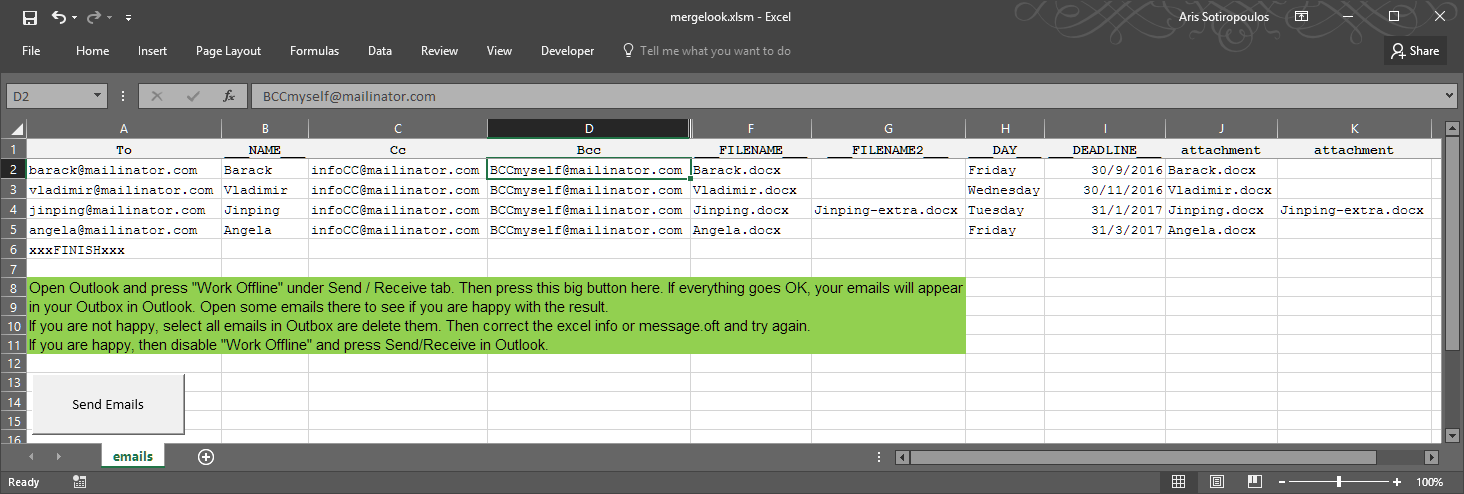
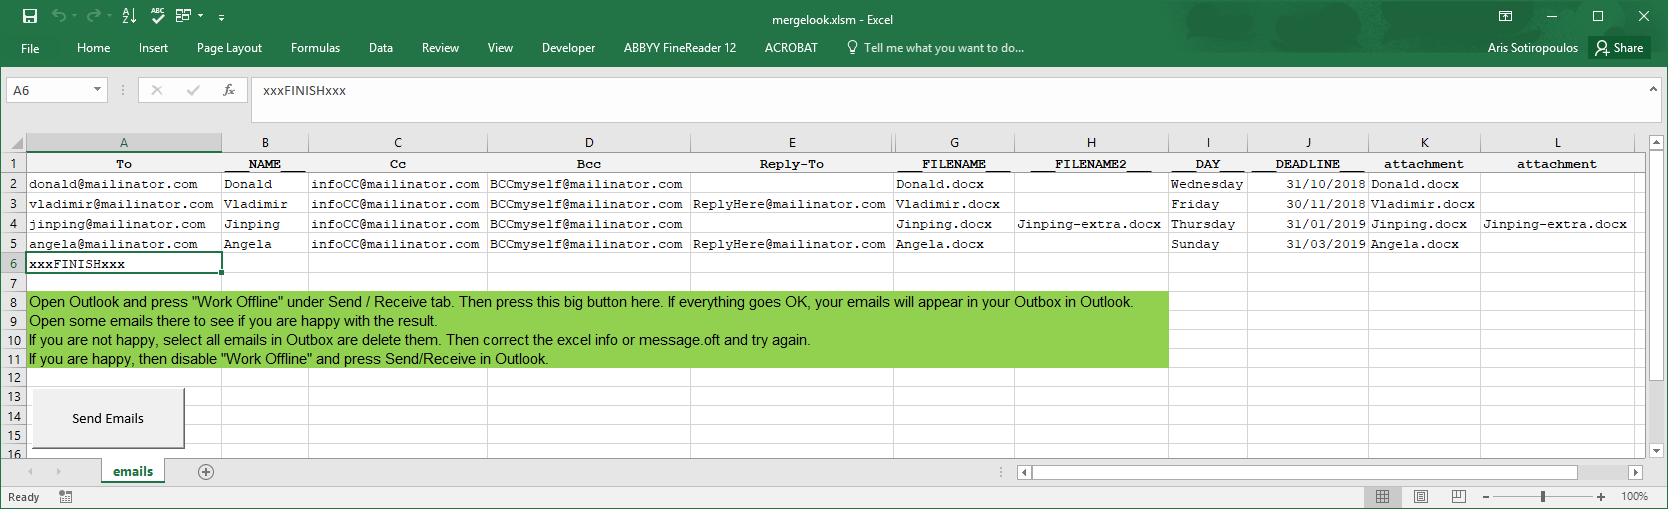
Added the Reply-To functionality
Alex Dompe requested the reply-to functionality, which is something I
hadn't thought of. Thank you very much, Alex!

diff --git a/README.md b/README.md
@@ -28,13 +28,13 @@ This is how `message.oft` looks like:
 ![message.oft](./images/message.png)
 
 
-For each email, the ``___NAME___`` will be replaced with corresponding values in `mergelook.xlsm`: ``Barack``, ``Vladimir``, etc. Similarly, the ``___FILENAME___`` will be replaced with corresponding values in `mergelook.xlsm`: ``Barack.docx``, ``Vladimir.docx``, etc.
+For each email, the ``___NAME___`` will be replaced with corresponding values in `mergelook.xlsm`: ``Donald``, ``Vladimir``, etc. Similarly, the ``___FILENAME___`` will be replaced with corresponding values in `mergelook.xlsm`: ``Donald.docx``, ``Vladimir.docx``, etc.
 
 ### `mergelook.xlsm`
 This is how `mergelook.xlsm` looks like:
 ![mergelook.xlsm](./images/mergelook.png)
 
-In columns with header ``To``, you should put the recipients' email addresses. Multiple recipients per email (row) are supported. The same goes for the columns with ``Cc`` and ``Bcc`` headers.
+In columns with header ``To``, you should put the recipients' email addresses. Multiple recipients per email (row) are supported. The same goes for the columns with ``Cc`` and ``Bcc`` headers. If for some emails you need to have a different Reply-To address, you can add one email address in the ``Reply-To`` column. The latter **does not** change the **From** email field.
 
 ### Sample email
 This is how a sample email looks like:
